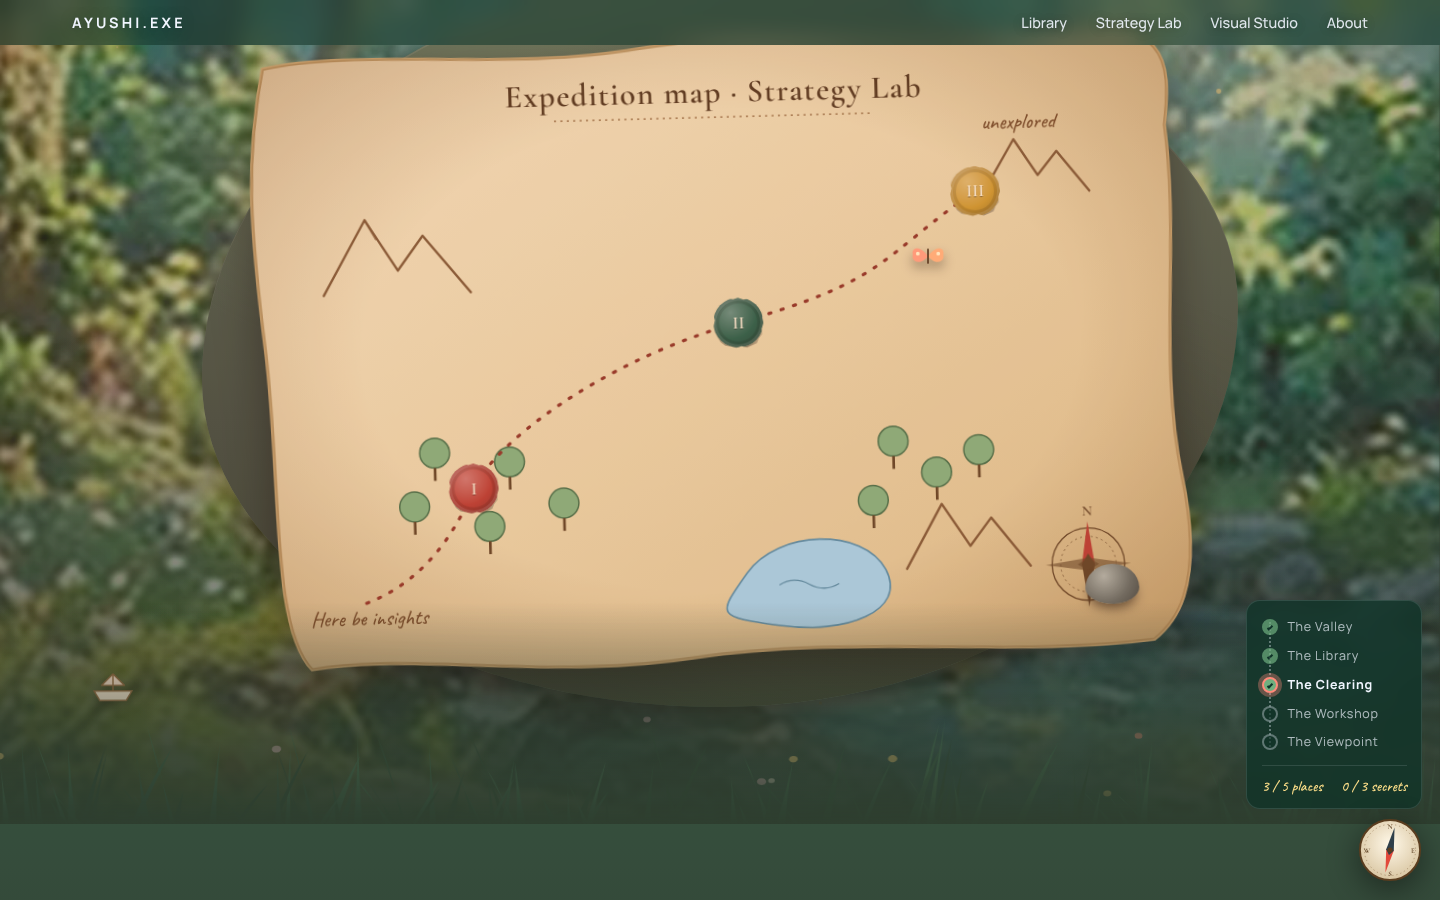
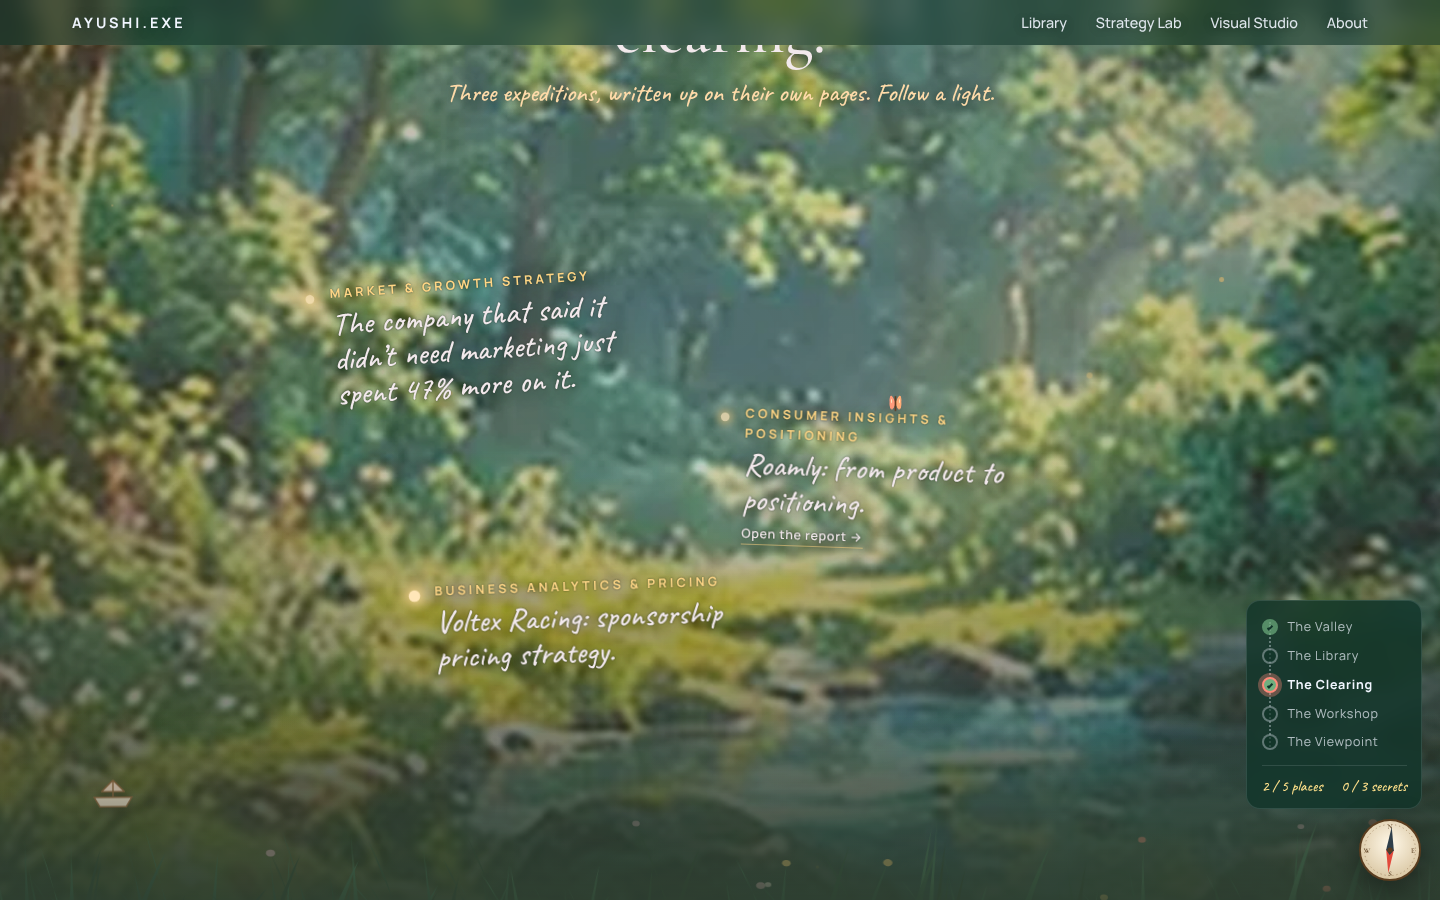
Clearing: remove the drawn map; projects are handwritten notes floating in the painting
Claude-Session: https://claude.ai/code/session_01RuimECQjLLPPcxrergvsow

diff --git a/src/components/lab/Waypoints.css b/src/components/lab/Waypoints.css
@@ -1,0 +1,29 @@
+.waypoints { list-style: none; margin: 0; padding: 0; position: relative; min-height: 70vh; }
+.waypoint {
+  position: absolute; left: var(--left); top: var(--top);
+  max-width: 20rem;
+  transform: rotate(var(--tilt));
+}
+.waypoint__link {
+  position: relative; display: block; padding: 0.4rem 0.2rem;
+  color: var(--cloud); text-decoration: none;
+  text-shadow: 0 2px 18px rgba(14, 42, 34, 0.9), 0 0 2px rgba(14, 42, 34, 0.8);
+  transition: transform 0.5s var(--ease-out);
+}
+.waypoint__link:hover, .waypoint__link:focus-visible { transform: translateY(-3px); }
+.waypoint__glow {
+  position: absolute; left: -22px; top: 0.95rem; width: 10px; height: 10px; border-radius: 50%;
+  background: #fff3c4; box-shadow: 0 0 10px 4px rgba(255, 230, 150, 0.8);
+  animation: waypoint-pulse 3.4s ease-in-out infinite; animation-delay: calc(var(--i) * -1.1s);
+}
+@keyframes waypoint-pulse { 0%, 100% { transform: scale(0.8); opacity: 0.7; } 50% { transform: scale(1.15); opacity: 1; } }
+.waypoint__category { display: block; font-size: var(--text-xs); letter-spacing: 0.26em; text-transform: uppercase; font-weight: 700; color: #ffe08a; margin-bottom: 0.15rem; }
+.waypoint__title { display: block; font-family: var(--font-hand); font-size: clamp(1.4rem, 1.1rem + 1vw, 2rem); line-height: 1.1; }
+.waypoint__cta { display: inline-block; margin-top: 0.3rem; font-size: var(--text-xs); font-weight: 600; letter-spacing: 0.06em; opacity: 0; transform: translateY(4px); transition: opacity 0.3s, transform 0.3s var(--ease-out); border-bottom: 1px solid rgba(255, 224, 138, 0.6); }
+.waypoint__link:hover .waypoint__cta, .waypoint__link:focus-visible .waypoint__cta { opacity: 1; transform: none; }
+
+@media (max-width: 760px) {
+  .waypoints { min-height: 0; display: grid; gap: 1.6rem; padding-left: 1.6rem; }
+  .waypoint { position: static; transform: rotate(var(--tilt)); max-width: none; }
+  .waypoint__cta { opacity: 1; transform: none; }
+}

diff --git a/src/components/lab/Waypoints.jsx b/src/components/lab/Waypoints.jsx
@@ -1,0 +1,31 @@
+import { strategyLab } from '../../content/strategyLab'
+import './Waypoints.css'
+
+/* Where each project's note floats over the painting, in % of the scene. */
+const SPOTS = [
+  { left: 12, top: 18, tilt: -4 },
+  { left: 52, top: 40, tilt: 2 },
+  { left: 22, top: 66, tilt: -2 },
+]
+
+/**
+ * Three handwritten notes floating in the clearing, one per project.
+ * Nothing drawn: just the painting, light, and words. Each note opens the report.
+ */
+export function Waypoints() {
+  const projects = strategyLab.projects.slice(0, 3)
+  return (
+    <ul className="waypoints" aria-label="Projects in the clearing">
+      {projects.map((p, i) => (
+        <li key={p.href} className="waypoint" style={{ '--left': `${SPOTS[i].left}%`, '--top': `${SPOTS[i].top}%`, '--tilt': `${SPOTS[i].tilt}deg`, '--i': i }}>
+          <a href={p.href} className="waypoint__link" target="_blank" rel="noopener">
+            <span className="waypoint__glow" aria-hidden="true" />
+            <span className="waypoint__category">{p.category}</span>
+            <span className="waypoint__title">{p.title}</span>
+            <span className="waypoint__cta">{p.cta} →<span className="visually-hidden"> (opens in a new tab)</span></span>
+          </a>
+        </li>
+      ))}
+    </ul>
+  )
+}

diff --git a/src/scenes/StrategyLab.jsx b/src/scenes/StrategyLab.jsx
@@ -6,7 +6,7 @@ import { useInView } from '../hooks/useInView'
 import { Motes } from '../components/landscape/Motes'
 import { Grass } from '../components/landscape/Grass'
 import { Butterfly } from '../components/landscape/Butterfly'
-import { QuestMap } from '../components/lab/QuestMap'
+import { Waypoints } from '../components/lab/Waypoints'
 import { ChapterCard } from '../components/journey/ChapterCard'
 import { Secret } from '../components/journey/Secret'
 import { Reveal } from '../components/ui/Reveal'
@@ -38,7 +38,7 @@ export function StrategyLab() {
           <p className="lab__intro">{strategyLab.mapHint}</p>
         </Reveal>
         <Reveal delay={240}>
-          <QuestMap />
+          <Waypoints />
         </Reveal>
       </div>
 

diff --git a/src/content/strategyLab.js b/src/content/strategyLab.js
@@ -10,7 +10,7 @@ export const strategyLab = {
   title: 'Field notes from the clearing.',
   intro:
     'Independent strategy projects: a market diagnosed, a brand positioned, a price structure rebuilt. Each one opens as its own report, designed on its own terms.',
-  mapHint: 'Press a wax seal on the map to read about that expedition.',
+  mapHint: 'Three expeditions, written up on their own pages. Follow a light.',
   aside: {
     title: 'Reading notes',
     lines: [
